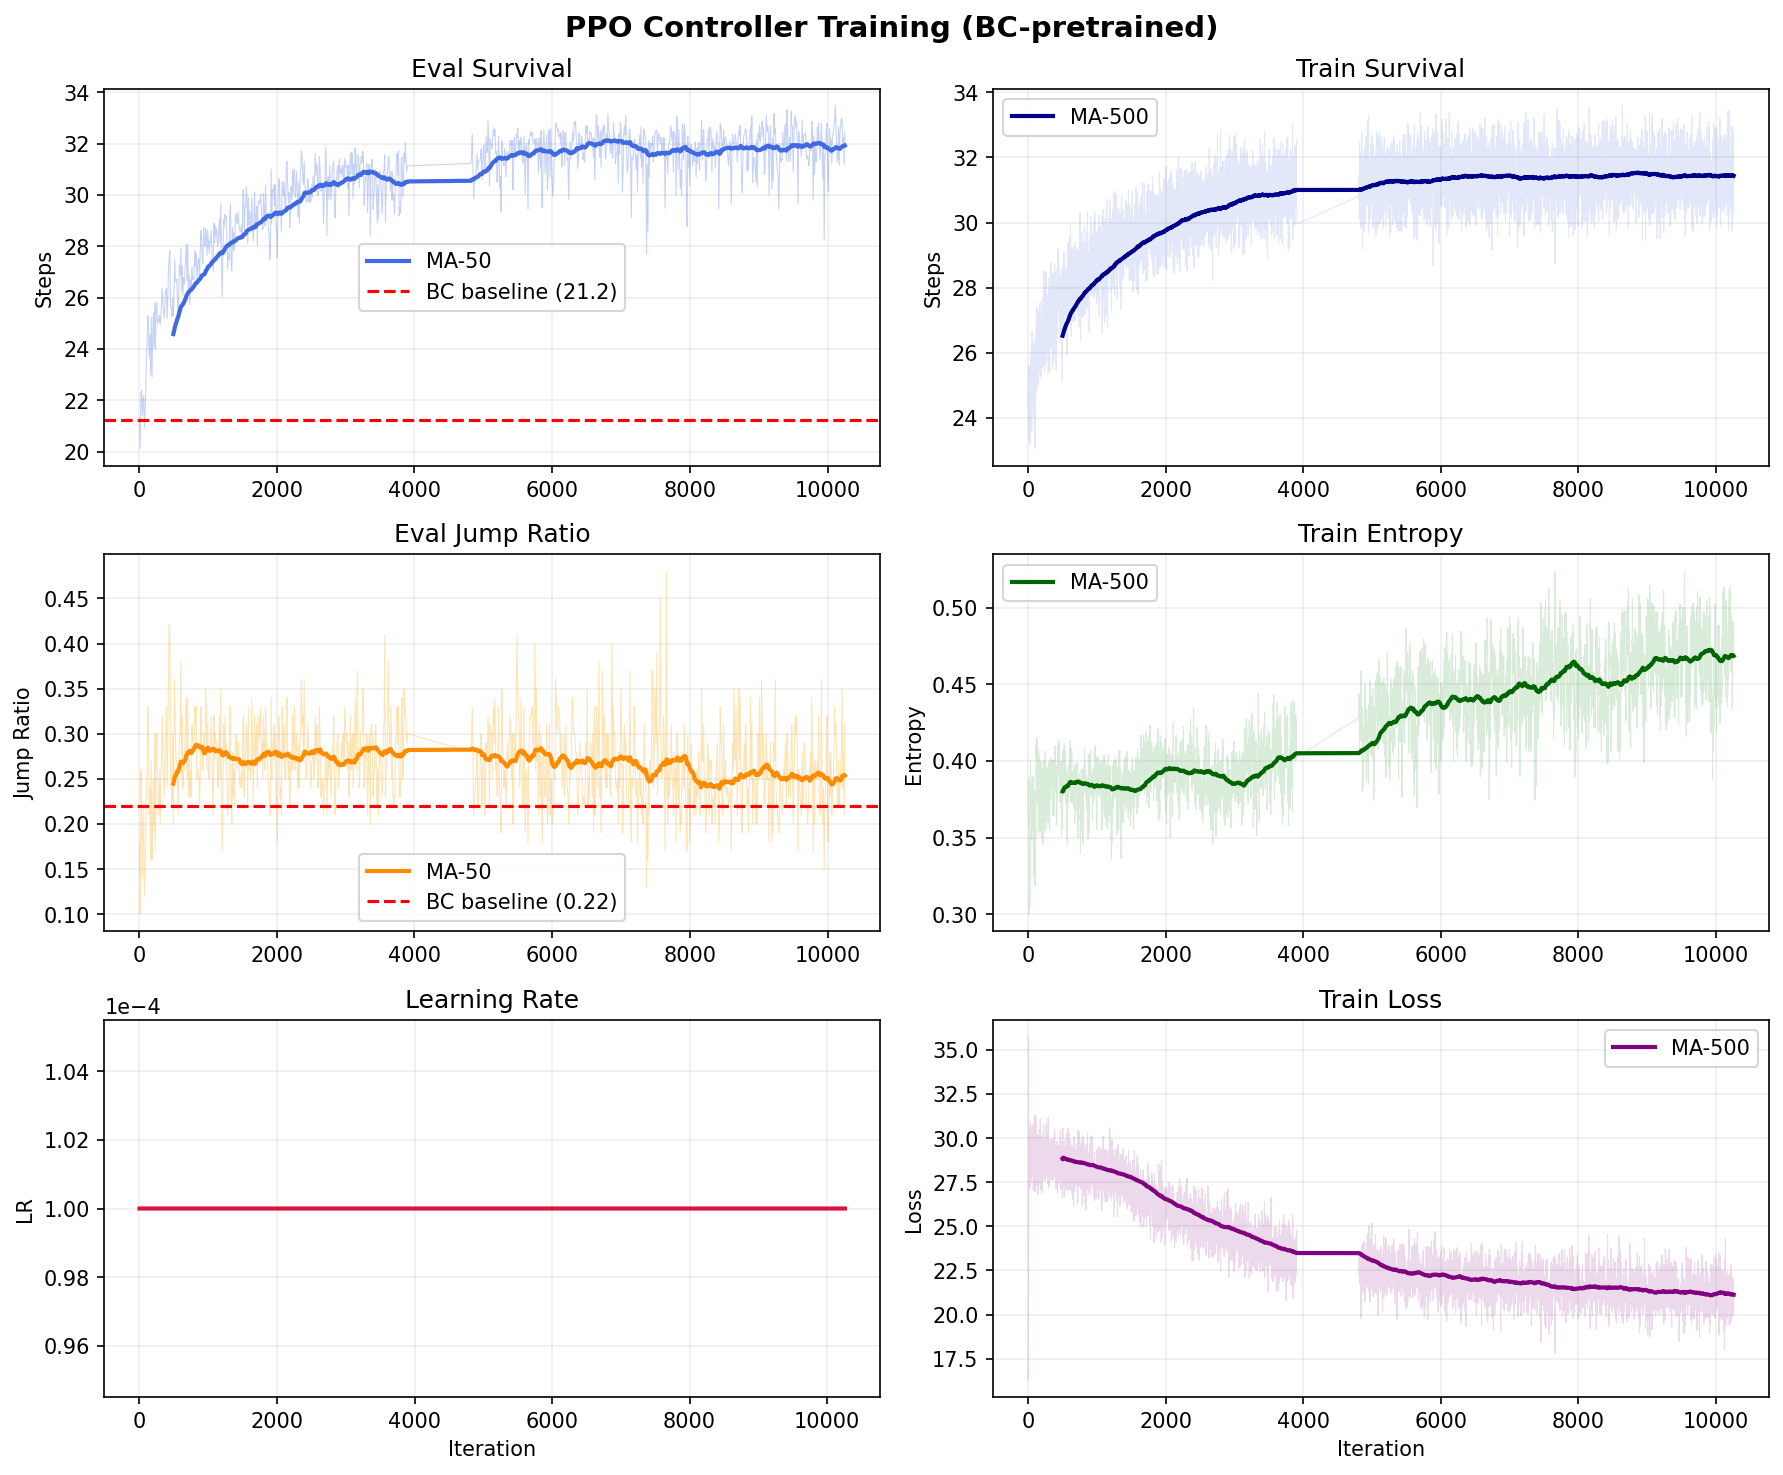
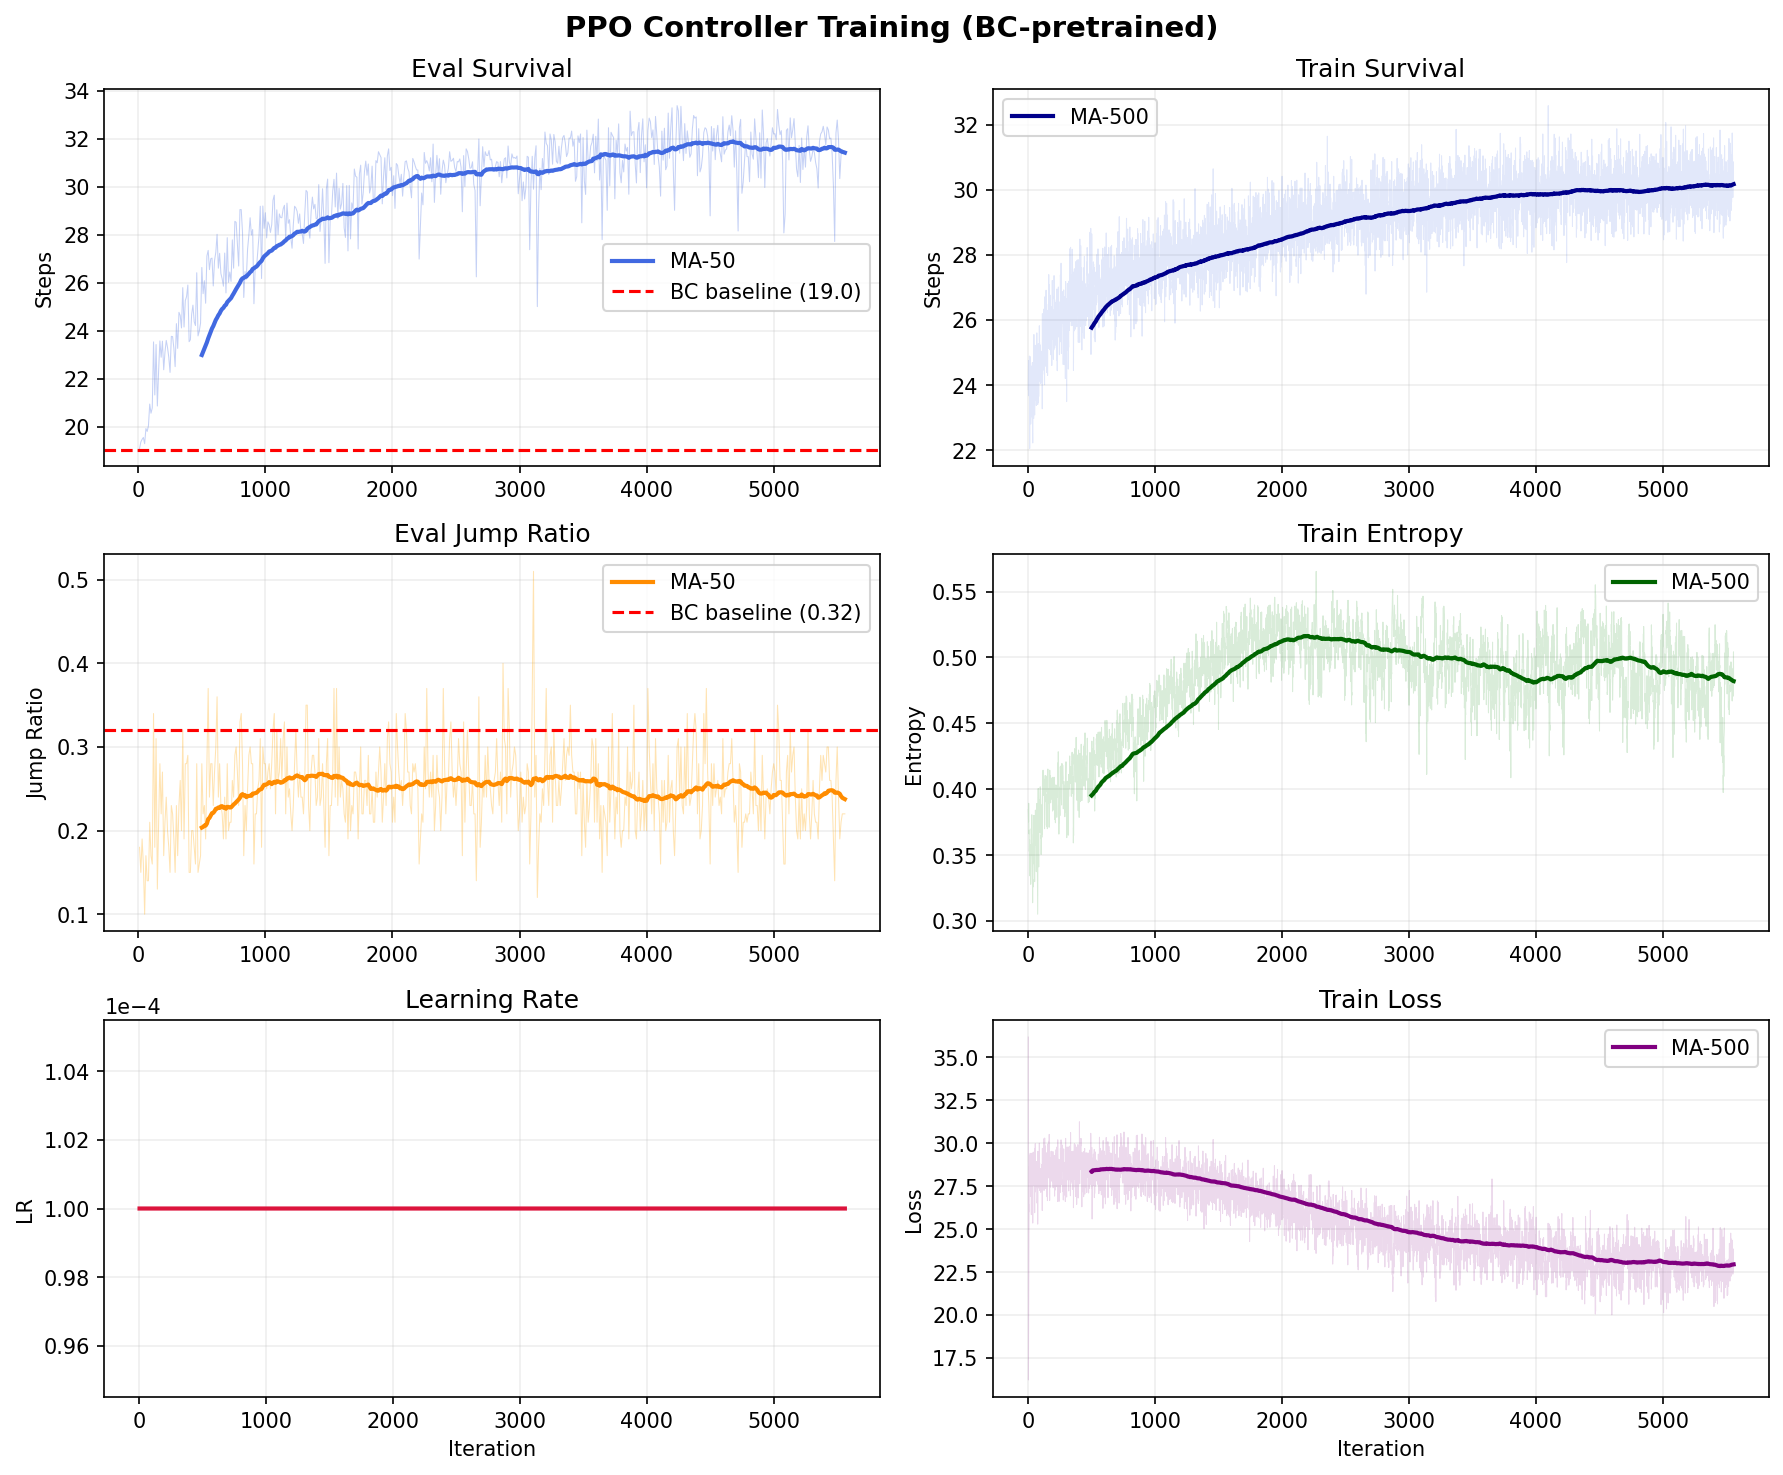
fix: revert to 384d, disable KV cache (RoPE drift bug)
512d showed no improvement over 384d in deployment. KV cache caused
constant jumping due to stale temporal RoPE positions after sliding.
Revert all defaults to 384d/dropout 0.1 as production config.

diff --git a/scripts/deploy.py b/scripts/deploy.py
@@ -200,15 +200,15 @@ def main():
     # Model architecture
     parser.add_argument("--levels", type=int, nargs="+", default=[8, 5, 5, 5])
     parser.add_argument("--vocab-size", type=int, default=1000)
-    parser.add_argument("--embed-dim", type=int, default=512)
+    parser.add_argument("--embed-dim", type=int, default=384)
     parser.add_argument("--n-heads", type=int, default=8)
     parser.add_argument("--n-layers", type=int, default=8)
     parser.add_argument("--tokens-per-frame", type=int, default=64)
     parser.add_argument("--context-frames", type=int, default=4)
     parser.add_argument("--dropout", type=float, default=0.1)
     parser.add_argument("--use-kv-cache", action=argparse.BooleanOptionalAction,
-                        default=True,
-                        help="Sliding-window KV cache for encode_context (default: on)")
+                        default=False,
+                        help="Sliding-window KV cache for encode_context (disabled: RoPE drift bug)")
     args = parser.parse_args()
 
     device = torch.device("cuda" if torch.cuda.is_available() else "cpu")

diff --git a/scripts/train_transformer.py b/scripts/train_transformer.py
@@ -354,7 +354,7 @@ def main():
                         help="Tokenizer vocabulary size (1000 for FSQ, 1024 for VQ-VAE)")
     parser.add_argument("--tokens-per-frame", type=int, default=64,
                         help="Tokens per frame (64 for 8x8 FSQ, 36 for 6x6 VQ-VAE)")
-    parser.add_argument("--embed-dim", type=int, default=512)
+    parser.add_argument("--embed-dim", type=int, default=384)
     parser.add_argument("--n-heads", type=int, default=8)
     parser.add_argument("--n-layers", type=int, default=8)
     parser.add_argument("--dropout", type=float, default=0.1)

diff --git a/scripts/plot_ppo_training.py b/scripts/plot_ppo_training.py
@@ -93,7 +93,7 @@ def main():
     parser.add_argument("--episodes-dir", default="data/death_episodes")
     parser.add_argument("--expert-episodes-dir", default="data/expert_episodes")
     parser.add_argument("--vocab-size", type=int, default=1000)
-    parser.add_argument("--embed-dim", type=int, default=512)
+    parser.add_argument("--embed-dim", type=int, default=384)
     parser.add_argument("--n-heads", type=int, default=8)
     parser.add_argument("--n-layers", type=int, default=8)
     parser.add_argument("--tokens-per-frame", type=int, default=64)

diff --git a/scripts/eval_transformer.py b/scripts/eval_transformer.py
@@ -57,7 +57,7 @@ def main():
     parser.add_argument("--context-frames", type=int, default=4)
     parser.add_argument("--vocab-size", type=int, default=1000)
     parser.add_argument("--tokens-per-frame", type=int, default=64)
-    parser.add_argument("--embed-dim", type=int, default=512)
+    parser.add_argument("--embed-dim", type=int, default=384)
     parser.add_argument("--n-heads", type=int, default=8)
     parser.add_argument("--n-layers", type=int, default=8)
     parser.add_argument("--dropout", type=float, default=0.1)

diff --git a/scripts/train_controller_ppo.py b/scripts/train_controller_ppo.py
@@ -430,7 +430,7 @@ def main():
     # World model architecture (must match checkpoint)
     parser.add_argument("--vocab-size", type=int, default=1000)
     parser.add_argument("--tokens-per-frame", type=int, default=64)
-    parser.add_argument("--embed-dim", type=int, default=512)
+    parser.add_argument("--embed-dim", type=int, default=384)
     parser.add_argument("--n-heads", type=int, default=8)
     parser.add_argument("--n-layers", type=int, default=8)
     parser.add_argument("--dropout", type=float, default=0.1)

diff --git a/scripts/train_controller_bc.py b/scripts/train_controller_bc.py
@@ -121,7 +121,7 @@ def main():
     parser.add_argument("--seed", type=int, default=42)
     # Model architecture (must match transformer)
     parser.add_argument("--vocab-size", type=int, default=1000)
-    parser.add_argument("--embed-dim", type=int, default=512)
+    parser.add_argument("--embed-dim", type=int, default=384)
     parser.add_argument("--n-heads", type=int, default=8)
     parser.add_argument("--n-layers", type=int, default=8)
     parser.add_argument("--tokens-per-frame", type=int, default=64)

diff --git a/scripts/play_dream.py b/scripts/play_dream.py
@@ -125,7 +125,7 @@ def main():
     # Model architecture
     parser.add_argument("--levels", type=int, nargs="+", default=[8, 5, 5, 5])
     parser.add_argument("--vocab-size", type=int, default=1000)
-    parser.add_argument("--embed-dim", type=int, default=512)
+    parser.add_argument("--embed-dim", type=int, default=384)
     parser.add_argument("--n-heads", type=int, default=8)
     parser.add_argument("--n-layers", type=int, default=8)
     parser.add_argument("--tokens-per-frame", type=int, default=64)

diff --git a/scripts/vis_ppo_dream.py b/scripts/vis_ppo_dream.py
@@ -233,7 +233,7 @@ def main():
     # Model architecture
     parser.add_argument("--levels", type=int, nargs="+", default=[8, 5, 5, 5])
     parser.add_argument("--vocab-size", type=int, default=1000)
-    parser.add_argument("--embed-dim", type=int, default=512)
+    parser.add_argument("--embed-dim", type=int, default=384)
     parser.add_argument("--n-heads", type=int, default=8)
     parser.add_argument("--n-layers", type=int, default=8)
     parser.add_argument("--tokens-per-frame", type=int, default=64)

diff --git a/scripts/benchmark_inference.py b/scripts/benchmark_inference.py
@@ -72,7 +72,7 @@ def main():
         print(f"GPU: {torch.cuda.get_device_name()}")
 
     model = WorldModel(
-        vocab_size=1000, embed_dim=512, n_heads=8, n_layers=8,
+        vocab_size=1000, embed_dim=384, n_heads=8, n_layers=8,
         context_frames=4, tokens_per_frame=64,
     ).to(device)
     state = torch.load(args.checkpoint, map_location=device, weights_only=True)

diff --git a/scripts/diagnose_action_sensitivity.py b/scripts/diagnose_action_sensitivity.py
@@ -22,7 +22,7 @@ def main():
     print(f"Device: {device}")
 
     model = WorldModel(
-        vocab_size=1000, embed_dim=512, n_heads=8, n_layers=8,
+        vocab_size=1000, embed_dim=384, n_heads=8, n_layers=8,
         context_frames=4, tokens_per_frame=64,
     ).to(device)
     state = torch.load("checkpoints/transformer_best.pt",

diff --git a/scripts/test_hardcoded_policies.py b/scripts/test_hardcoded_policies.py
@@ -48,7 +48,7 @@ def main():
     print(f"Device: {device}")
 
     model = WorldModel(
-        vocab_size=1000, embed_dim=512, n_heads=8, n_layers=8,
+        vocab_size=1000, embed_dim=384, n_heads=8, n_layers=8,
         context_frames=4, tokens_per_frame=64,
     ).to(device)
     state = torch.load("checkpoints/transformer_best.pt",

diff --git a/scripts/diagnose_death_sensitivity.py b/scripts/diagnose_death_sensitivity.py
@@ -50,7 +50,7 @@ def main():
         tokenizer.eval()
 
     model = WorldModel(
-        vocab_size=1000, embed_dim=512, n_heads=8, n_layers=8,
+        vocab_size=1000, embed_dim=384, n_heads=8, n_layers=8,
         context_frames=4, tokens_per_frame=64,
     ).to(device)
     state = torch.load("checkpoints/transformer_best.pt",
